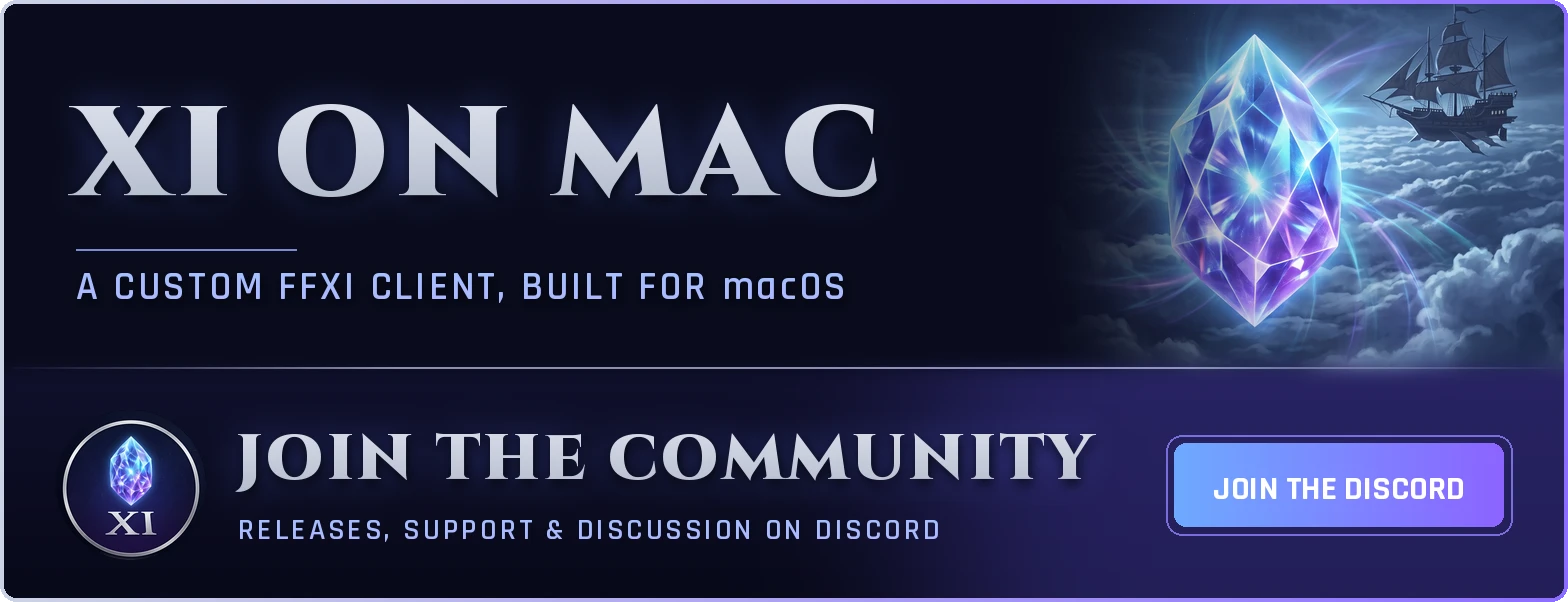
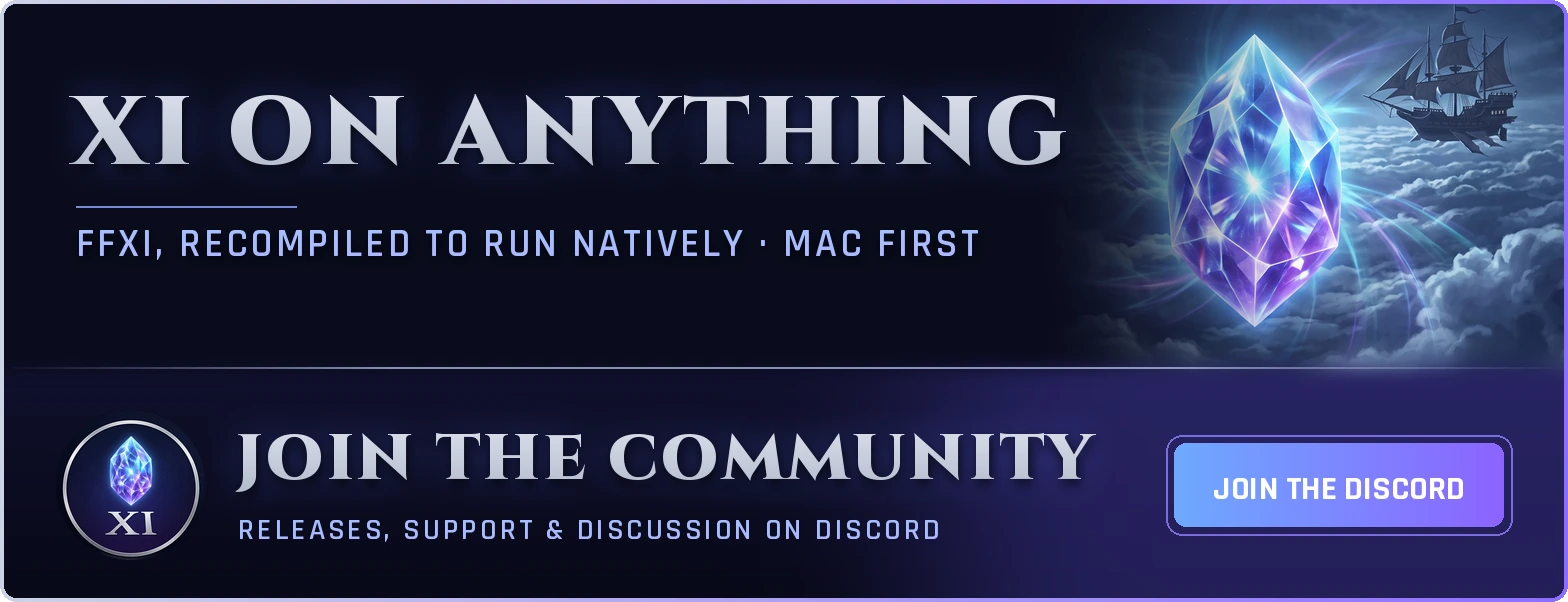
Rebrand to XI on Anything; install.sh installs the launcher
Launcher releases now live in this repo: install.sh downloads and installs the latest one. The
build-from-source installer moves to tools/install-source.sh (tools/test_install.sh follows).
README, banner and host64's ProductName use the new name. Bundle ids, data folders and release
asset names are unchanged so existing installs keep working.

Changed region(s): [[0.0312, 0.1495, 0.6875, 0.5083], [0.5, 0.3588, 0.625, 0.4186]]

diff --git a/README.md b/README.md
@@ -1,13 +1,13 @@
-<a href="https://discord.gg/4vUKPgyvEp"><img src="screenshots/discord_banner.webp" alt="XI on Mac: join the community on Discord"></a>
+<a href="https://discord.gg/4vUKPgyvEp"><img src="screenshots/discord_banner.webp" alt="XI on Anything: join the community on Discord"></a>
 
 > [!IMPORTANT]
-> ## ▶ To play, get the [XI on Mac launcher](https://github.com/rubymatrix/xi-on-mac-launcher)
+> ## ▶ To play, get the [XI on Anything launcher](#install-players)
 >
 > **The launcher installs and updates everything for you.** You don't need to build this repo
 > to play. Paste into Terminal:
 >
 > ```bash
-> curl -fsSL https://raw.githubusercontent.com/rubymatrix/xi-on-mac-launcher/main/install.sh | bash
+> curl -fsSL https://raw.githubusercontent.com/rubymatrix/xi-on-mac/main/install.sh | bash
 > ```
 >
 > Needs an Apple silicon Mac (M1 or later) and your own copy of FINAL FANTASY XI.
@@ -18,6 +18,7 @@ FINAL FANTASY XI running natively on Apple silicon Macs, with no Wine or Rosetta
 from your own install, and run on a platform layer written for macOS: Win32, Direct3D 8 on Metal,
 audio, input and sockets. This repo holds the recompiler, its runtime, that platform layer, and
 `host64`, the game host, with its own sign-in screen drawn in the game's UI art.
+XI on Anything runs on Apple silicon Macs today, with more platforms planned.
 
 **Works with [LandSandBoat](https://github.com/LandSandBoat/server) servers.** Sign in with a
 username, password and one-time code, or a server launcher's token; pick the server in the
@@ -69,7 +70,7 @@ sign-in screen's Settings.
 > but this hasn't been played in the live game yet.
 
 Ashita v4 and Windower 4 **Lua addons** run unmodified, with those projects' own libraries, on
-FFXI on Mac's own addon host: no DLL injection, no Windows. Each addon gets its own LuaJIT state;
+XI on Anything's own addon host: no DLL injection, no Windows. Each addon gets its own LuaJIT state;
 the host provides Ashita's and Windower's Lua APIs over the recompiled game, and draws their ImGui
 windows, text and images over the game's frame.
 
@@ -89,13 +90,29 @@ See [docs/addon-compat-design.md](docs/addon-compat-design.md) for how it works.
 
 ## Install (players)
 
-You need a Mac with Apple silicon (M1 or later), macOS 12 or later, about 3 GB free, and the
-game files your private server gives you: a `FINAL FANTASY XI` folder (with `FFXiMain.dll` and
+Paste into Terminal:
+
+```bash
+curl -fsSL https://raw.githubusercontent.com/rubymatrix/xi-on-mac/main/install.sh | bash
+```
+
+It downloads the launcher's latest release from this repo's
+[Releases](https://github.com/rubymatrix/xi-on-mac/releases), checks it against the release's
+checksums, installs **XI on Mac.app** into Applications and opens it. The launcher signs you in,
+builds the game from your own game files and keeps both up to date. Run the same line again to
+reinstall. The app is not signed with an Apple Developer ID yet, so a copy downloaded in a browser
+is blocked by macOS: use the line above instead.
+
+## Install from source
+
+To build the game straight from this repo without the launcher, you need a Mac with Apple silicon
+(M1 or later), macOS 12 or later, about 3 GB free, and the game files your private server gives
+you: a `FINAL FANTASY XI` folder (with `FFXiMain.dll` and
 `ROM` in it). Put that folder anywhere, e.g. in
 `~/Games`, then paste this into Terminal:
 
 ```
-curl -fsSL https://raw.githubusercontent.com/rubymatrix/xi-on-mac/main/install.sh | bash
+curl -fsSL https://raw.githubusercontent.com/rubymatrix/xi-on-mac/main/tools/install-source.sh | bash
 ```
 
 It installs Apple's command line tools if they are missing (a dialog: click Install), finds the
@@ -112,16 +129,16 @@ Before building it asks:
 
 Each question starts from what you have now, so on an update Enter keeps it. The options
 `--server`, `--resolution WxH`, `--window-mode 0-3` and `--dats <folder>|none` answer instead, e.g.
-`curl -fsSL .../install.sh | bash -s -- --server play.example.net --resolution 2560x1440`.
+`curl -fsSL .../tools/install-source.sh | bash -s -- --server play.example.net --resolution 2560x1440`.
 
 Run the same line again to update, or after your server hands out a new game version. To name the
-folder yourself: `curl -fsSL .../install.sh | bash -s -- --game ~/Games/"FINAL FANTASY XI"`. The
+folder yourself: `curl -fsSL .../tools/install-source.sh | bash -s -- --game ~/Games/"FINAL FANTASY XI"`. The
 build's output is in `~/Library/Application Support/FFXIRecompile/source/build/setup.log`. From a
 clone of this repo, `./setup.command` does the same with the clone.
 
 To test the installer from a clone, uncommitted changes included, without touching your own app
 or settings: `python3 tests/setup_test.py` checks the questions and the saved files they update,
-and `tools/test_install.sh` runs `install.sh` as a player would, piped to bash, with everything in a
+and `tools/test_install.sh` runs `tools/install-source.sh` as a player would, piped to bash, with everything in a
 sandbox folder. By default it stops after the questions; `--full` builds and installs into the
 sandbox, `--saved` starts from copies of your saved settings (an update), `--sandbox <folder>`
 reuses one (`--help`).
@@ -437,7 +454,7 @@ tests/             difftest.c (original vs translation), boot.c (x86), boot64.c 
                    gfx_test.c (the Metal back end), d3d8_test.c (the D3D8 front end on it)
 tools/             prepare.py, buildinfo.py, unpack.py, build.py (MSVC), build_posix.py (clang),
                    install.py, trace_report.py; newbuild.py and discover.py (a new client version)
-                   setup.py (the player's install, run by install.sh and setup.command),
+                   setup.py (the source install, run by install-source.sh and setup.command),
                    thirdparty.py (builds third_party/ with clang), vendor.py (refreshes third_party/)
 third_party/       stb; SDL3 and mbedtls, trimmed to what the build uses, with manifest.json each
 discovery/         the discovery pass: Ghidra (Jython) post-scripts, verdicts.py (the manual verdicts
